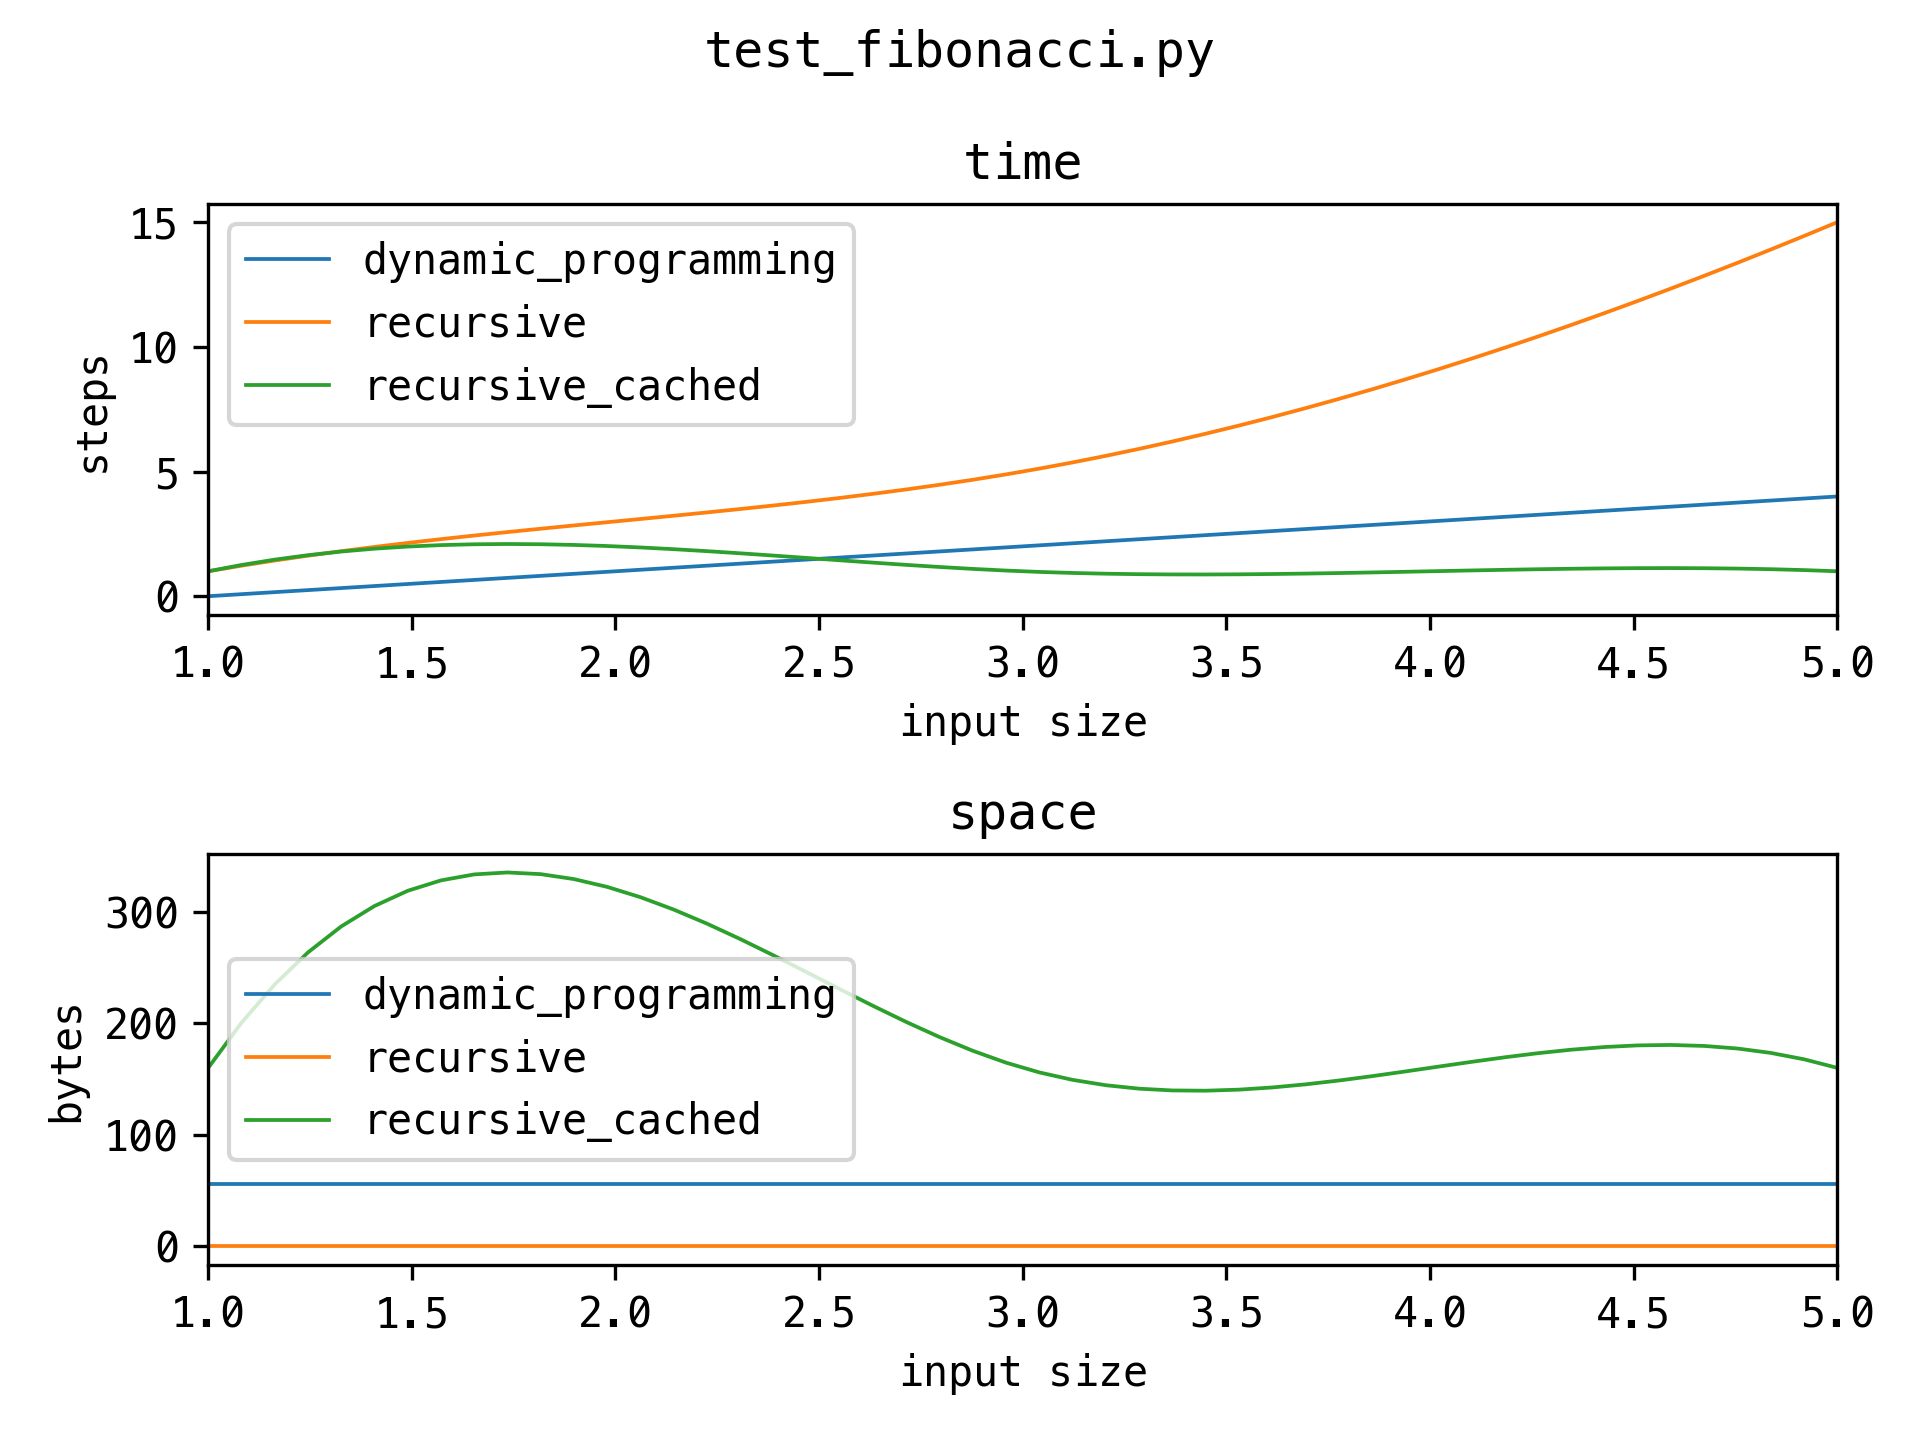
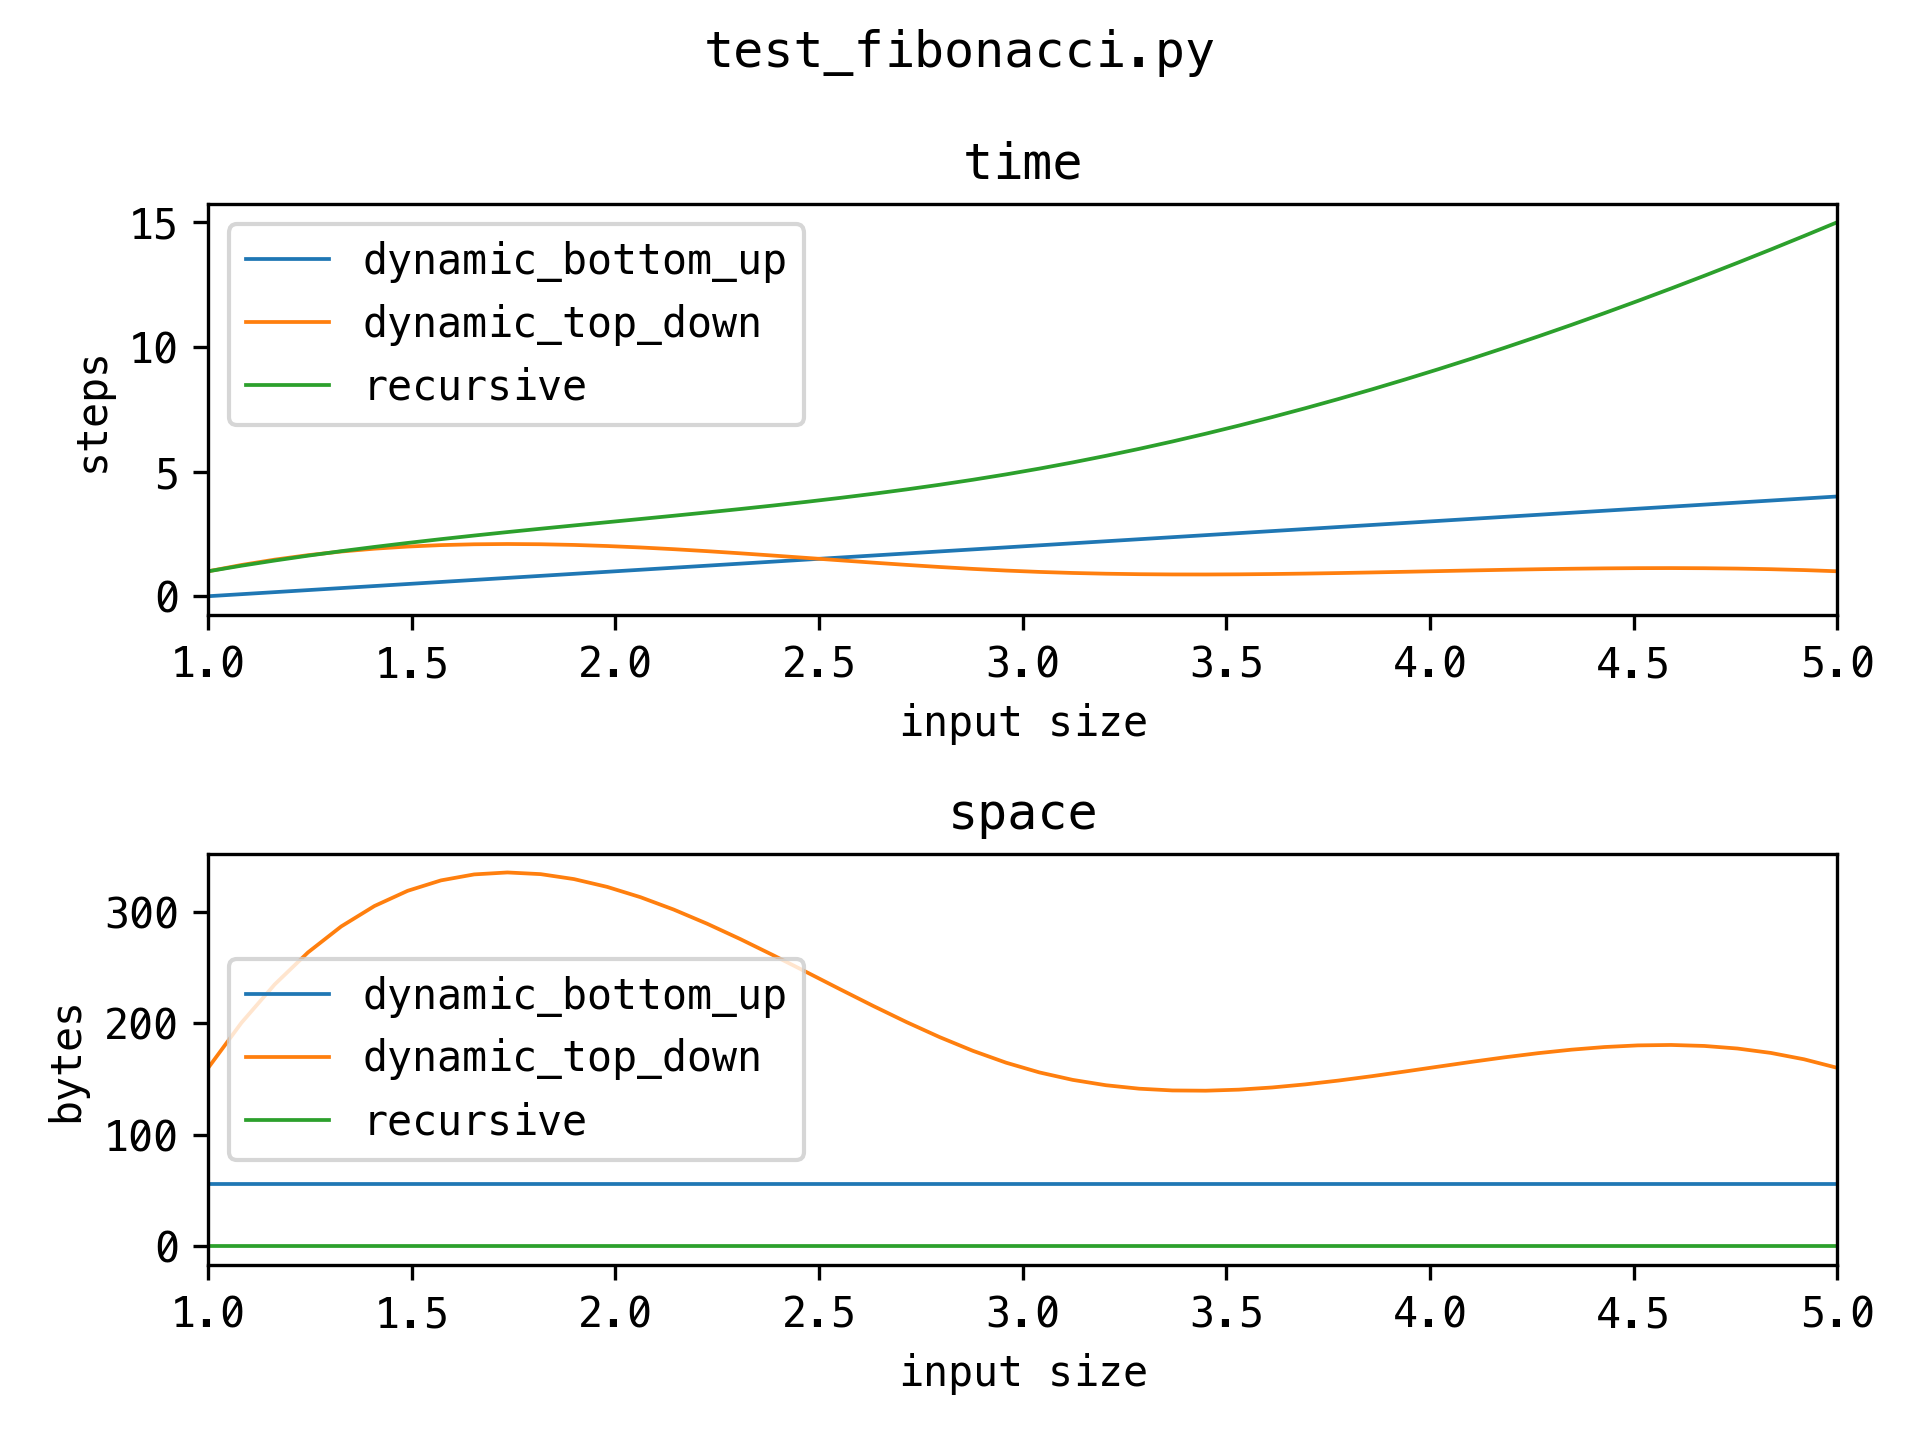
Rename fibonacci solutions

diff --git a/src/uncategorized/test_fibonacci.py b/src/uncategorized/test_fibonacci.py
@@ -11,24 +11,24 @@ class Solution(utils.BaseSolution):
         return self.recursive(n - 1) + self.recursive(n - 2)
 
     @cache
-    def recursive_cached(self, n: int):
+    def dynamic_top_down(self, n: int):
         self.complexity.store(cache)
         self.complexity.step()
         if n <= 1:
             return n
-        return self.recursive_cached(n - 1) + self.recursive_cached(n - 2)
+        return self.dynamic_top_down(n - 1) + self.dynamic_top_down(n - 2)
 
-    def dynamic_programming(self, n: int):
-        previous_previous = 0
-        previous = 1
-        self.complexity.store(previous_previous, previous)
+    def dynamic_bottom_up(self, n: int):
+        prev = 0
+        curr = 1
+        self.complexity.store(prev, curr)
         if n == 0:
             return n
         for _ in range(n - 1):
             self.complexity.step()
-            current = previous_previous + previous
-            (previous, previous_previous) = (current, previous)
-        return previous
+            next = prev + curr
+            (curr, prev) = (next, curr)
+        return curr
 
 
 def test_complexity():
